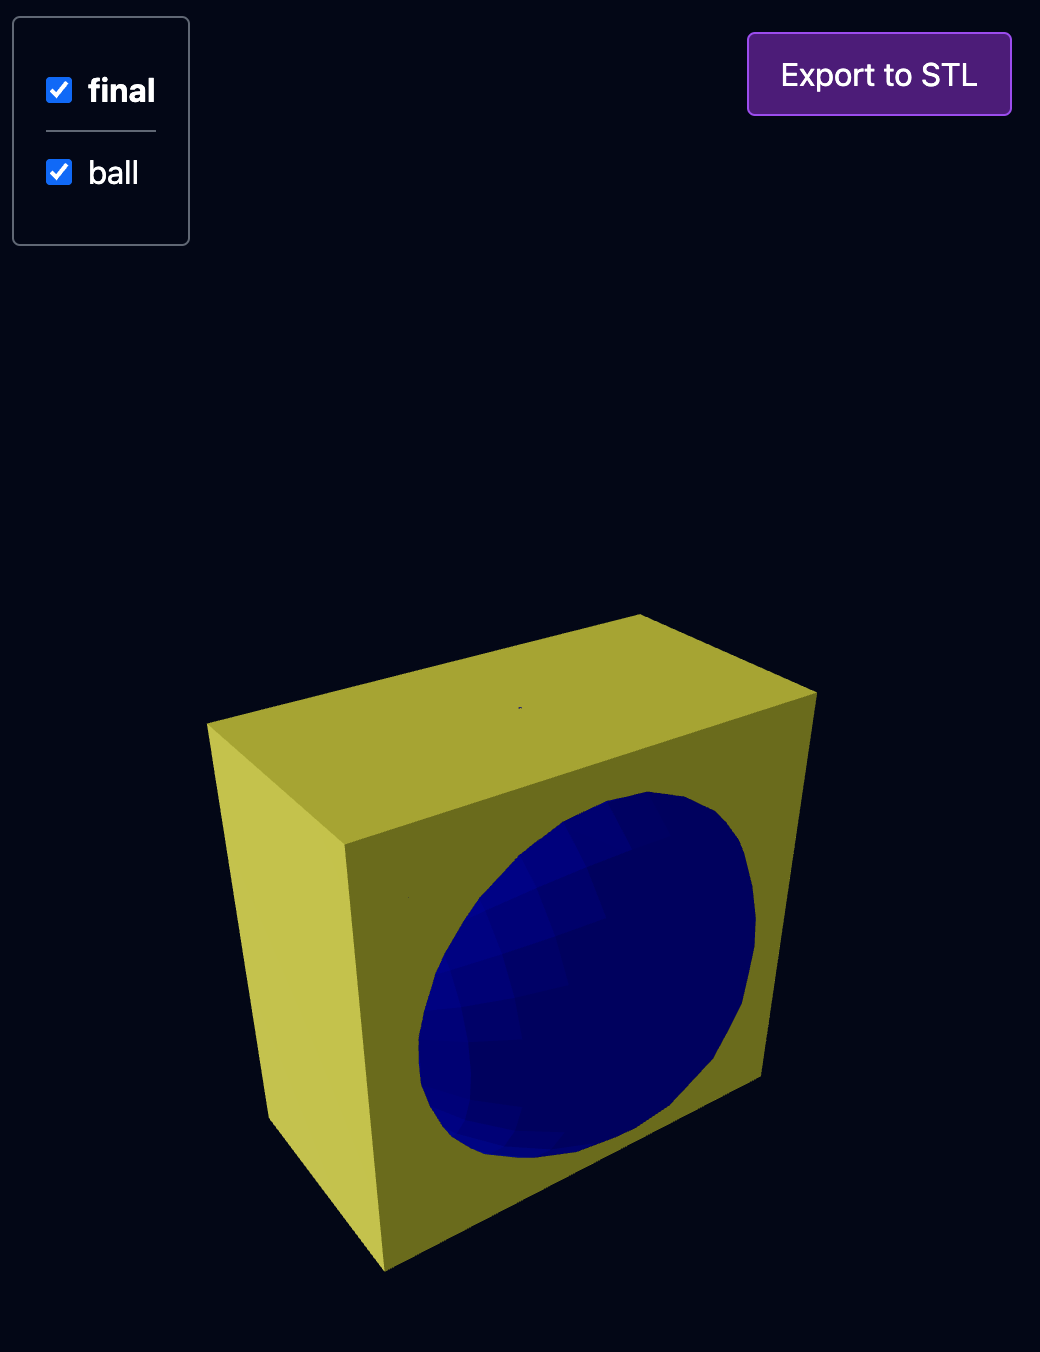
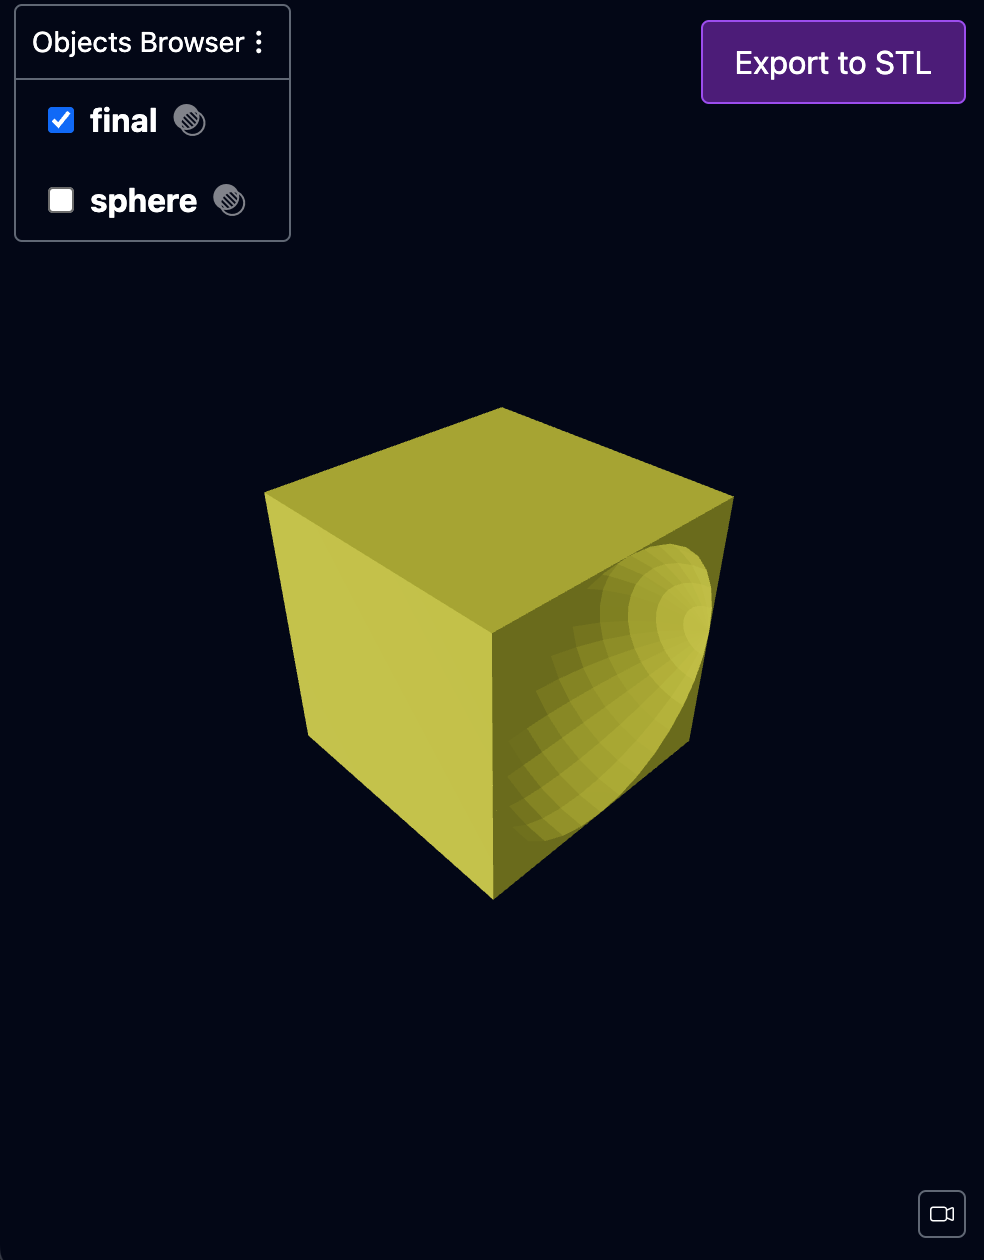
screenshot

diff --git a/src/design/design.ts b/src/design/design.ts
@@ -2,14 +2,14 @@
 /* eslint-disable @typescript-eslint/no-explicit-any */
 import { subtract } from "@jscad/modeling/src/operations/booleans";
 import { translate } from "@jscad/modeling/src/operations/transforms";
-import { roundedCuboid, sphere } from "@jscad/modeling/src/primitives";
+import { cuboid, sphere } from "@jscad/modeling/src/primitives";
 import { GeometriesTree } from "../types";
 
 export const design = (): GeometriesTree => {
-  const cube = roundedCuboid({ size: [100, 100, 100], roundRadius: 10 });
-  const ball = translate([100 / 2, 0, 0], sphere({ radius: 50 }));
+  const cube = cuboid({ size: [100, 100, 100] });
+  const aSphere = translate([100 / 2, 0, 0], sphere({ radius: 50 }));
 
-  const final = subtract(cube, ball);
+  const final = subtract(cube, aSphere);
 
   // return an object where each property is a JSCAD geometry you want to visualize
   // the property named `final` is your final design
@@ -17,6 +17,6 @@ export const design = (): GeometriesTree => {
   // this is usefull for debugging operations like subtract, as you can see the object that was subtracted
   return {
     final,
-    ball,
+    sphere: aSphere,
   };
 };
